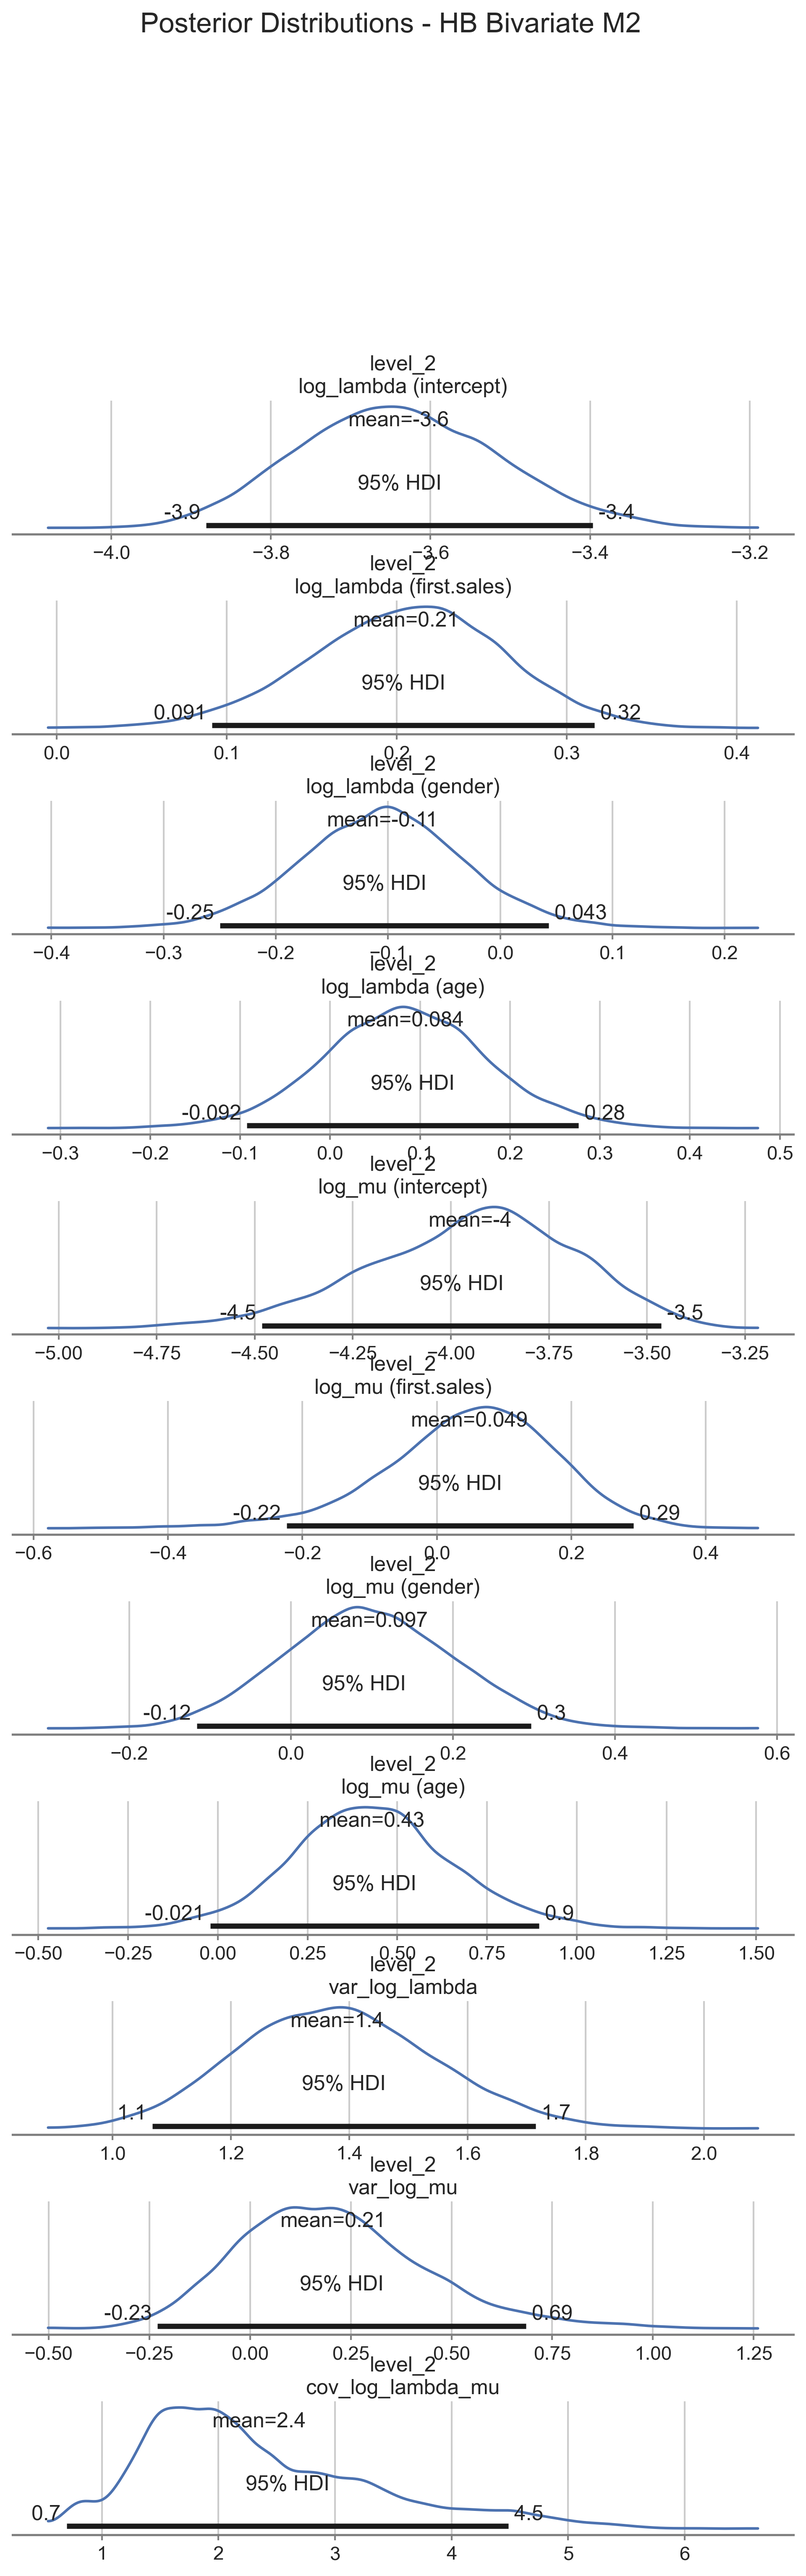
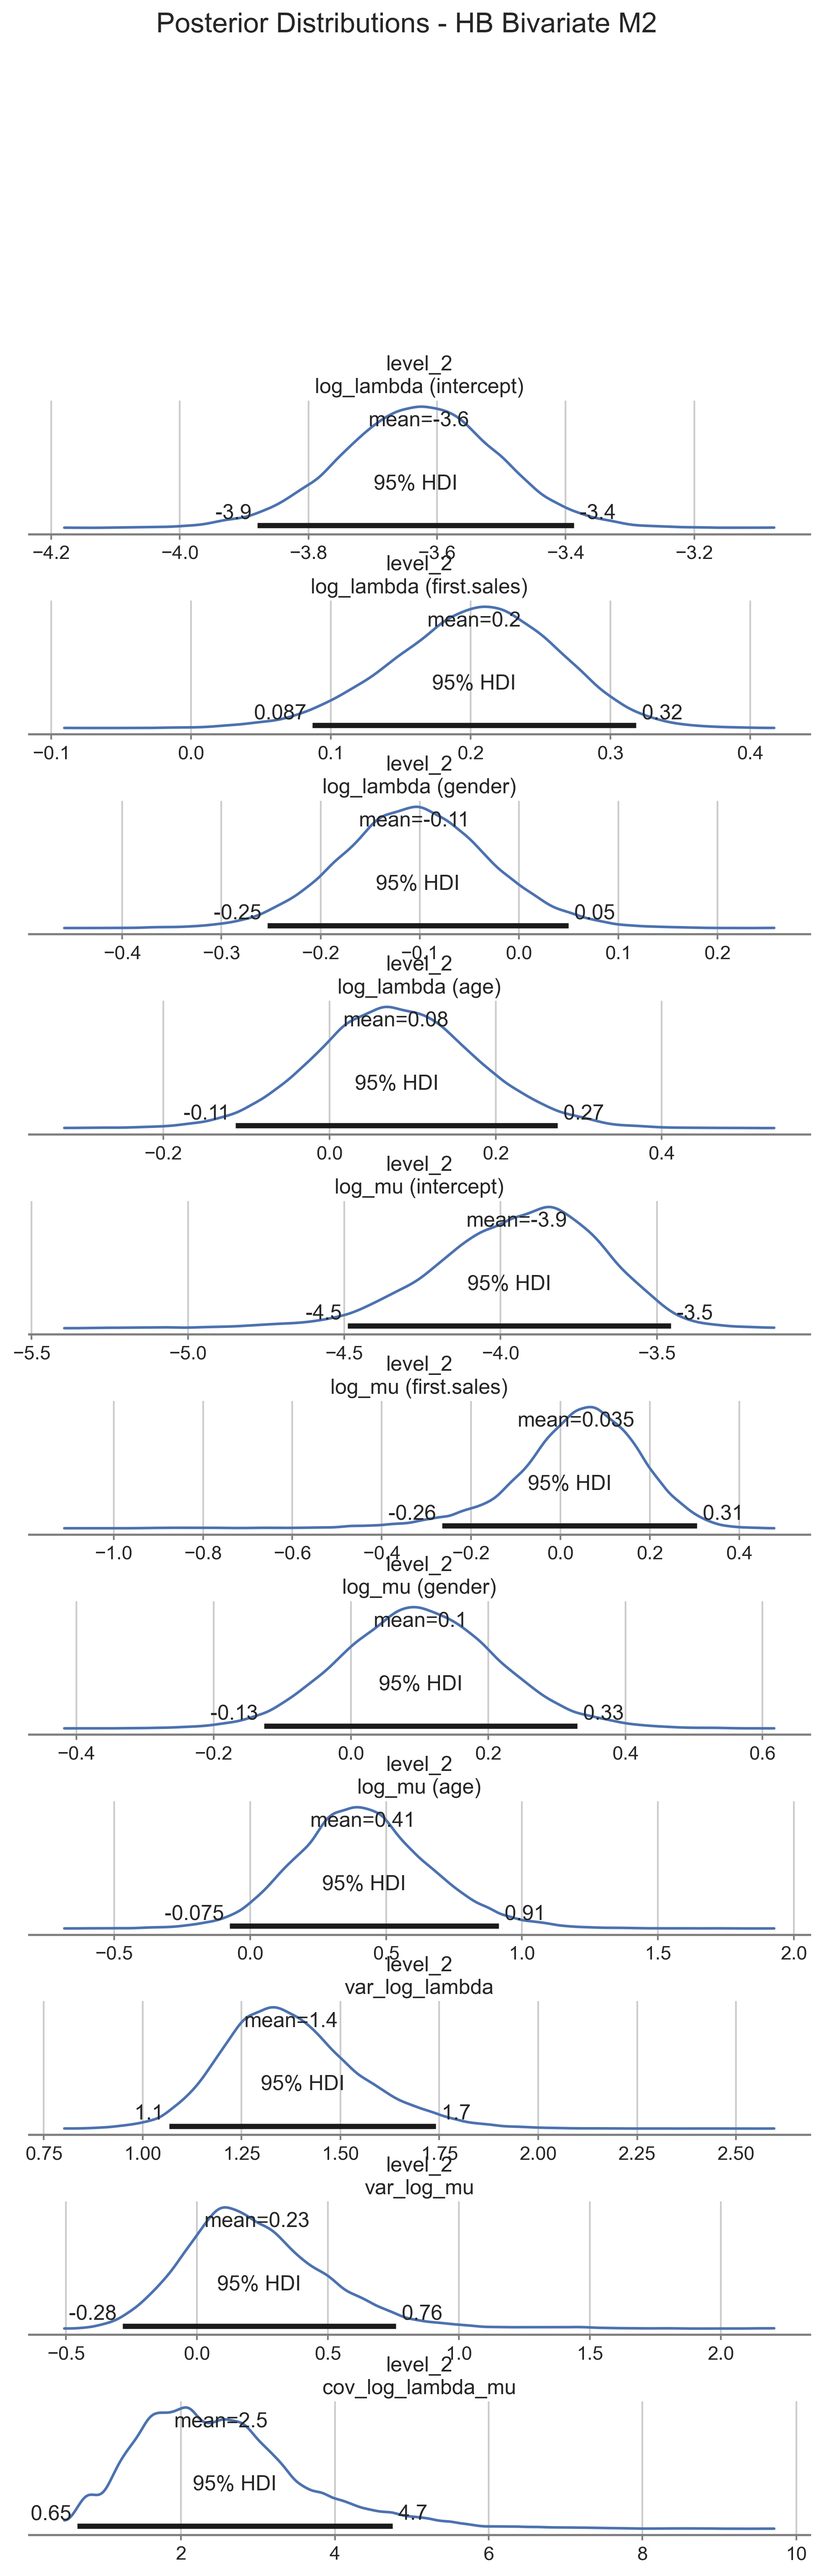
increased burnin, draws mh steps

diff --git a/src/models/trivariate/run_mcmc_extensions.py b/src/models/trivariate/run_mcmc_extensions.py
@@ -1,7 +1,5 @@
 # %% 1. Import necessary libraries & set project root & custom modules & helper function
 # -- 1. Import necessary libraries & set project root & custom modules & helper function --
-# ------------------------------------------------------------------
-
 import os
 import sys
 # ------------------------------------------------------------------
@@ -30,21 +28,11 @@ from IPython.display import display
 # Import custom modules for model estimation and prediction
 from src.models.trivariate.mcmc import mcmc_draw_parameters_rfm_m
 # ------------------------------------------------------------------------
-# %% 2. Load full CDNOW CBS with customer covariates ---------------------------
-# -- 2. Load full CDNOW CBS with customer covariates ---------------------------
 
-# ------------------------------------------------------------------------
-# Define the relative or absolute path to the data directory.
-# Adjust if your notebook sits elsewhere.
-# ------------------------------------------------------------------------
+# %% 2. Load CDNOW CBS with customer covariates ---------------------------
+# -- 2. Load CDNOW CBS with customer covariates ---------------------------
 
-# CHANGE TO cdnow_fullCBS, once our analysis script is done to rerun on actual full dataset
 FILE_CBS = os.path.join(project_root, "data", "processed", "cdnow_abeCBS.csv")
-
-# ------------------------------------------------------------------------
-# Read the CSV.  If the column "first" (first purchase date) exists,
-# read it as datetime; everything else stays numeric / categorical.
-# ------------------------------------------------------------------------
 parse_cols = ["first"] if "first" in pd.read_csv(FILE_CBS, nrows=0).columns else None
 cbs_df = pd.read_csv(FILE_CBS, parse_dates=parse_cols)
 
@@ -64,23 +52,21 @@ cbs_df["log_s"] = (
 print("Shape:", cbs_df.shape)       # rows, columns
 display(cbs_df.head())              # first five rows
 display(cbs_df.describe(include="all").T)  # summary stats
+# ------------------------------------------------------------------------
 
-
-# %% 3. Running MCMC for model estimation M1
-# -- 3. Running MCMC for model estimation M1
-# ------------------------------------------------------------------
-# Estimate Model M1 (no covariates)
+# %% 3. Running MCMC for model estimation M1 (no covariates)
+# -- 3. Running MCMC for model estimation M1 (no covariates)
 start_m1 = time.time()
 draws_3pI = mcmc_draw_parameters_rfm_m(
     cal_cbs    = cbs_df,
     covariates = None,      # intercept‐only
-    mcmc       =    4000,      # 4000 total iterations
-    burnin     =    10000,   # discard the first 10 000 as warm-up
-    thin       =    1,         # keep every draw; 4 000 draws after burn-in
+    mcmc       =    8000,      # 8000 total iterations
+    burnin     =    20000,   # discard the first 20 000 as warm-up
+    thin       =    1,         # keep every draw; 8 000 draws after burn-in
     chains     =    4,
     seed       =    42,
     trace      =    1000,
-    n_mh_steps =    40,
+    n_mh_steps =    50,
 )
 m1_duration = time.time() - start_m1
 print(f"Model M1 runtime: {m1_duration:.2f} seconds")
@@ -88,12 +74,13 @@ print(f"Model M1 runtime: {m1_duration:.2f} seconds")
 # Ensure the pickles directory exists at the project root
 pickles_dir = os.path.join(project_root, "outputs", "pickles")
 os.makedirs(pickles_dir, exist_ok=True)
-with open(os.path.join(pickles_dir, "full_tri_m1.pkl"), "wb") as f:
+with open(os.path.join(pickles_dir, "ext_tri_m1.pkl"), "wb") as f:
     pickle.dump(draws_3pI, f)
+# ------------------------------------------------------------------
 
 # %% 4. Running MCMC for model estimation M2 (age & gender as cov)
 # -- 4. Running MCMC for model estimation M2 (age & gender as cov)
-# ------------------------------------------------------------------
+# Covariates
 covariate_cols = ["age_scaled", "gender_binary"]
 print("Data shape:", cbs_df.shape)
 print("Using covariates:", covariate_cols)
@@ -104,13 +91,13 @@ start_m2 = time.time()
 draws_3pII = mcmc_draw_parameters_rfm_m(
     cal_cbs    = cbs_df,
     covariates  = covariate_cols,
-    mcmc    =   4000,      # 4000 total iterations
-    burnin  =   10000,   # discard the first 10 000 as warm-up
-    thin    =   1,         # keep every draw; 4 000 draws after burn-in
+    mcmc    =   8000,      # 8000 total iterations
+    burnin  =   20000,   # discard the first 20 000 as warm-up
+    thin    =   1,         # keep every draw; 8 000 draws after burn-in
     chains  =   4,
     seed    =   42,
     trace   =   1000,
-    n_mh_steps = 40,
+    n_mh_steps = 50,
 )
 m2_duration = time.time() - start_m2
 print(f"Model M2 runtime: {m2_duration:.2f} seconds")
@@ -119,15 +106,15 @@ print(f"Model M2 runtime: {m2_duration:.2f} seconds")
 # Ensure the pickles directory exists at the project root
 pickles_dir = os.path.join(project_root, "outputs", "pickles")
 os.makedirs(pickles_dir, exist_ok=True)
-with open(os.path.join(pickles_dir, "full_tri_m2.pkl"), "wb") as f:
+with open(os.path.join(pickles_dir, "ext_tri_m2.pkl"), "wb") as f:
     pickle.dump(draws_3pII, f)
-# ------------------------------------------------------------------
 
 # Print runtimes
 runtimes = pd.DataFrame({
     "model":   ["M1",           "M2"],
     "runtime": [m1_duration,    m2_duration]
 })
+# ------------------------------------------------------------------
 
 # %% 5. Save runtimes to CSV and update
 # -- 5. Save runtimes to CSV and update
@@ -138,8 +125,8 @@ if os.path.exists(csv_path):
 else:
     df_runs = pd.DataFrame(columns=["model", "runtime"])
 for model_name, runtime in [
-    ("full_tri_M1", m1_duration),
-    ("full_tri_M2", m2_duration)
+    ("ext_tri_M1", m1_duration),
+    ("ext_tri_M2", m2_duration)
 ]:
     # Remove any old entry for this model
     df_runs = df_runs[df_runs.model != model_name]
@@ -150,4 +137,4 @@ for model_name, runtime in [
     )
 df_runs.to_csv(csv_path, index=False)
 print(f"Saved runtimes to {csv_path}")
-# %%
+# ------------------------------------------------------------------

diff --git a/src/models/bivariate/analysis_extensions.py b/src/models/bivariate/analysis_extensions.py
@@ -1,5 +1,5 @@
 # ------------------------------------------------------------------
-# this script reproduces the analysis from Abe (2009) | with three customer characteristics & on full dataset
+# this script reproduces the analysis from Abe (2009) | with three customer characteristics
 # ------------------------------------------------------------------
 # %% 1. Import necessary libraries & set project root & custom modules & helper function
 # -- 1. Import necessary libraries & set project root & custom modules & helper function --
@@ -43,33 +43,34 @@ from src.models.utils.analysis_bi_helpers import (summarize_level2,
                                                   chain_total_loglik, 
                                                   compute_table4)
 from src.models.utils.analysis_bi_dynamic import build_bivariate_param_names_and_labels
+# ------------------------------------------------------------------
 
 # %% 2. Load estimates, data and set path
 # -- 2. Load estimates, data and set path
-# ------------------------------------------------------------------
+
 # --- Load Pre-computed Results ---
 pickles_dir = os.path.join(project_root, "outputs", "pickles")
 
 # Set Excel output path
-excel_path = os.path.join(project_root, "outputs", "excel", "abe_extention.xlsx")
+excel_path = os.path.join(project_root, "outputs", "excel", "extension.xlsx")
 os.makedirs(os.path.dirname(excel_path), exist_ok=True)
 
 # Set folder to save Figures 
-figure_path = os.path.join(project_root, "outputs", "figures", "full_extention")
+figure_path = os.path.join(project_root, "outputs", "figures", "extension")
 os.makedirs(figure_path, exist_ok=True)   # create the folder if it doesn’t exist
 
 # Load MCMC draws
-with open(os.path.join(pickles_dir, "full_bi_m1.pkl"), "rb") as f:
+with open(os.path.join(pickles_dir, "ext_bi_m1.pkl"), "rb") as f:
     draws_m1 = pickle.load(f)
-with open(os.path.join(pickles_dir, "full_bi_m2.pkl"), "rb") as f:
+with open(os.path.join(pickles_dir, "ext_bi_m2.pkl"), "rb") as f:
     draws_m2 = pickle.load(f)
 
-# Load CBS data ---> CHNAGE TO FULL ONCE ALL WORKS
+# Load CBS data
 cbs_path = os.path.join(project_root, "data", "processed", "cdnow_abeCBS.csv")
 print(f"Loading CBS data from: {cbs_path}")
 cbs = pd.read_csv(cbs_path, dtype={"cust": str}, parse_dates=["first"])
 
-# Load Elog data ---> CHNAGE TO FULL ONCE ALL WORKS
+# Load Elog data
 data_path = os.path.join(project_root, "data", "raw", "cdnow_abeElog.csv")
 print(f"Loading Elog data from: {data_path}")
 cdnowElog = pd.read_csv(data_path)
@@ -77,11 +78,11 @@ cdnowElog = pd.read_csv(data_path)
 cdnowElog["date"] = pd.to_datetime(cdnowElog["date"])
 # ensure the same key type
 cdnowElog["cust"] = cdnowElog["cust"].astype(str)
-
 # ------------------------------------------------------------------
+
 # %% 3. Descriptive Statistics
 # -- 3. Descriptive Statistics --
-# ------------------------------------------------------------------
+
 # ------ Construct Table 1 from Abe 2009  ------
 table1_stats = pd.DataFrame(
     {
@@ -596,8 +597,8 @@ plt.figure(figsize=(8,5))
 plt.plot(cond_df.index, cond_df["Actual"], '-', color='tab:blue', linewidth=2, label="Actual")
 plt.plot(cond_df.index, cond_df["Pareto/NBD"], marker='*', linestyle='--', color='tab:orange', linewidth=2, label="Pareto/NBD")
 plt.plot(cond_df.index, cond_df["HB"], marker='x', linestyle=':', color='tab:green', linewidth=2, label="HB")
-plt.xlabel("Number of transactions in weeks 1–39")
-plt.ylabel("Average transactions in weeks 40–78")
+plt.xlabel("Number of transactions in weeks 1-39")
+plt.ylabel("Average transactions in weeks 40-78")
 plt.title("Figure 3: Conditional Expectation of Future Transactions for CDNOW Data")
 plt.legend()
 plt.savefig(os.path.join(figure_path, "Figure3_bi_conditional_expectation.png"), dpi=300, bbox_inches='tight')

diff --git a/src/models/trivariate/analysis_extensions.py b/src/models/trivariate/analysis_extensions.py
@@ -1,7 +1,5 @@
 # %% 1. Import necessary libraries & set project root & custom modules & helper function
 # -- 1. Import necessary libraries & set project root & custom modules & helper function --
-# ------------------------------------------------------------------
-
 import os
 import sys
 # ------------------------------------------------------------------
@@ -17,7 +15,6 @@ project_root = cwd
 if project_root not in sys.path:
     sys.path.insert(0, project_root)
 # ------------------------------------------------------------------
-
 # Import rest of libraries
 import numpy as np
 import pandas as pd
@@ -39,7 +36,6 @@ from src.models.utils.analysis_tri_helpers import (summarize_level2,
 
 # For interactive table display
 from IPython.display import display
-
 # ------------------------------------------------------------------------
 
 # %% 2. Load estimates, data and set paths
@@ -49,20 +45,20 @@ from IPython.display import display
 pickles_dir = os.path.join(project_root, "outputs", "pickles")
 
 # Set folder to save Figures 
-figure_path = os.path.join(project_root, "outputs", "figures", "full_extention")
+figure_path = os.path.join(project_root, "outputs", "figures", "extension")
 os.makedirs(figure_path, exist_ok=True)   # create the folder if it doesn’t exist
 
 # Load MCMC draws
-with open(os.path.join(pickles_dir, "full_tri_m1.pkl"), "rb") as f:
+with open(os.path.join(pickles_dir, "ext_tri_m1.pkl"), "rb") as f:
     draws_3pI = pickle.load(f)
-with open(os.path.join(pickles_dir, "full_tri_m2.pkl"), "rb") as f:
+with open(os.path.join(pickles_dir, "ext_tri_m2.pkl"), "rb") as f:
     draws_3pII = pickle.load(f)
 
-# Load CBS data --> CHANGE TO FULL LATER
+# Load CBS data
 cbs_path = os.path.join(project_root, "data", "processed", "cdnow_abeCBS.csv")
 cbs_df = pd.read_csv(cbs_path, dtype={"cust": str}, parse_dates=["first"])
 
-# Load Elog data --> CHANGE TO FULL LATER
+# Load Elog data
 data_path = os.path.join(project_root, "data", "raw", "cdnow_abeElog.csv")
 cdnowElog = pd.read_csv(data_path)
 # Convert date column to datetime
@@ -76,8 +72,7 @@ cbs_df["log_s"] = (
     cbs_df["log_s"]
     .replace(-np.inf, 0.0)
     .fillna(0.0)
-)
-# ------------------------------------------------------------------
+) # ------------------------------------------------------------------
 
 # %% 3. Table 2 – HB RFM model-fit metrics (no covariates vs. gender + age) --
 # -- 3. Table 2 – HB RFM model-fit metrics (no covariates vs. gender + age) --
@@ -372,7 +367,7 @@ ax.tick_params(axis='x', colors='#444444')
 
 # Final layout adjustment
 plt.tight_layout()
-plt.savefig(os.path.join(figure_path, "Alive_vs_Churned_bi.png"), dpi=300, bbox_inches='tight')
+plt.savefig(os.path.join(figure_path, "Alive_vs_Churned_tri.png"), dpi=300, bbox_inches='tight')
 plt.show()
 
 # %% 7. Poserior distribution and Traceplots
@@ -416,7 +411,6 @@ idata_m2 = az.from_dict(
     ]},
     dims={"level_2": ["param"]}
 )
-
 # Plot traceplots for both models
 az.plot_trace(idata_m1, var_names=["level_2"], figsize=(12, 6))
 plt.suptitle("Traceplot - M1", fontsize=14)
@@ -427,5 +421,4 @@ az.plot_trace(idata_m2, var_names=["level_2"], figsize=(12, 10))
 plt.suptitle("Traceplot - M2", fontsize=14)
 plt.tight_layout()
 plt.show()
-
-# %%
+# ------------------------------------------------------------------

diff --git a/src/models/bivariate/run_mcmc_extensions.py b/src/models/bivariate/run_mcmc_extensions.py
@@ -62,19 +62,19 @@ start_m1 = time.time()
 draws_m1 = mcmc_draw_parameters(
     cal_cbs =   cbs,
     covariates  =[],
-    mcmc    =   4000,      # 4000 total iterations
-    burnin  =   10000,   # discard the first 10 000 as warm-up
+    mcmc    =   8000,      # 4000 total iterations
+    burnin  =   20000,   # discard the first 10 000 as warm-up
     thin    =   1,         # keep every draw; 4 000 draws after burn-in
     chains  =   4,
     seed    =   42,
     trace   =   1000,
-    n_mh_steps = 40,
+    n_mh_steps = 50,
 )
 m1_duration = time.time() - start_m1
 print(f"Model M1 runtime: {m1_duration:.2f} seconds")
 
 # Save Model M1 estimates
-with open(os.path.join(pickles_dir, "full_bi_m1.pkl"), "wb") as f:
+with open(os.path.join(pickles_dir, "ext_bi_m1.pkl"), "wb") as f:
     pickle.dump(draws_m1, f)
 # ------------------------------------------------------------------
 
@@ -86,19 +86,19 @@ start_m2 = time.time()
 draws_m2 = mcmc_draw_parameters(
     cal_cbs =   cbs,
     covariates =["first_sales_scaled", "age_scaled", "gender_binary"],  # Parameters to replicate Abe 2009
-    mcmc    =   4000,     # 14 000 total iterations
-    burnin  =   10000,   # discard the first 10 000 as warm-up
+    mcmc    =   8000,     # 14 000 total iterations
+    burnin  =   20000,   # discard the first 10 000 as warm-up
     thin    =   1,         # keep every draw; 4 000 draws after burn-in
     chains  =   4,
     seed    =   42,
     trace   =   1000,
-    n_mh_steps = 40,
+    n_mh_steps = 50,
 )
 m2_duration = time.time() - start_m2
 print(f"Model M2 runtime: {m2_duration:.2f} seconds")
 
 # Save Model M2 estimates
-with open(os.path.join(pickles_dir, "full_bi_m2.pkl"), "wb") as f:
+with open(os.path.join(pickles_dir, "ext_bi_m2.pkl"), "wb") as f:
     pickle.dump(draws_m2, f)
 # ------------------------------------------------------------------
 
@@ -115,8 +115,8 @@ if os.path.exists(csv_path):
 else:
     df_runs = pd.DataFrame(columns=["model", "runtime"])
 for model_name, runtime in [
-    ("full_bi_M1", m1_duration),
-    ("full_bi_M2", m2_duration)
+    ("ext_bi_M1", m1_duration),
+    ("ext_bi_M2", m2_duration)
 ]:
     # Remove any old entry for this model
     df_runs = df_runs[df_runs.model != model_name]

diff --git a/src/models/trivariate/mcmc.py b/src/models/trivariate/mcmc.py
@@ -1,21 +1,5 @@
 """mcmc.py
-Python re-implementation of the hierarchical-Bayes Pareto/NBD variant from
-Abe (2009):
-
-* Synthetic-data generator identical to `abe.GenerateData` from the original R
-  code.
-* Event-log → CBS helper (`elog2cbs`).
-* Vectorised latent-variable samplers (`draw_z`, `draw_tau`).
-* Full Metropolis-within-Gibbs sampler (`mcmc_draw_parameters_rfm_m`) that mirrors the
-  algorithm in Abe's Appendix A.1. No fancy back-end - NumPy + SciPy are fast
-  enough; PyMC is **optional** (only used for trace plotting later).
-
-The output roughly matches the R function: two dictionaries with draws for each
-chain.  Results are easy to stuff into an ArviZ `InferenceData` if desired.
-
-All times are measured in **weeks** (as in the R demo). The random-number flow
-is managed by a `numpy.random.Generator` passed around explicitly for
-reproducibility.
+Python extention of Abe 2009; inspired by / in analogy to Abe 2015
 """
 from __future__ import annotations
 

diff --git a/src/full_analysis.py b/src/full_analysis.py
@@ -65,15 +65,15 @@ os.makedirs(figure_path, exist_ok=True)
 
 # Load Estimates
 # Bivariate
-with open(os.path.join(pickles_dir, "full_bi_m1.pkl"), "rb") as f:
+with open(os.path.join(pickles_dir, "ext_bi_m1.pkl"), "rb") as f:
     bi_m1 = pickle.load(f)
-with open(os.path.join(pickles_dir, "full_bi_m2.pkl"), "rb") as f:
+with open(os.path.join(pickles_dir, "ext_bi_m2.pkl"), "rb") as f:
     bi_m2 = pickle.load(f)
 
 # Trivariate
-with open(os.path.join(pickles_dir, "full_tri_m1.pkl"), "rb") as f:
+with open(os.path.join(pickles_dir, "ext_tri_m1.pkl"), "rb") as f:
     tri_m1 = pickle.load(f)
-with open(os.path.join(pickles_dir, "full_tri_m2.pkl"), "rb") as f:
+with open(os.path.join(pickles_dir, "ext_tri_m2.pkl"), "rb") as f:
     tri_m2 = pickle.load(f)
 
 # CBS data
